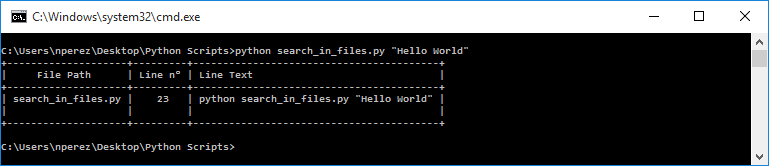
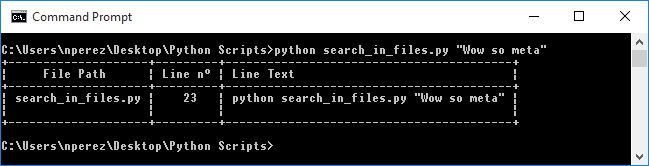
Final

diff --git a/search_in_files.py b/search_in_files.py
@@ -20,7 +20,7 @@ python search_in_files.py " Watson " -d sherlockHolmesBooks -fn *.txt -s
 python search_in_files.py caseSensitiveWord -C -d ../foldername -fn *.txt
 python search_in_files.py #FIXME -R -fn *.py
 python search_in_files.py #[A-Z]{3,5} -r -C -R -fn *.py
-python search_in_files.py "Hello World"
+python search_in_files.py "Wow so meta"
 """
 
 import os
